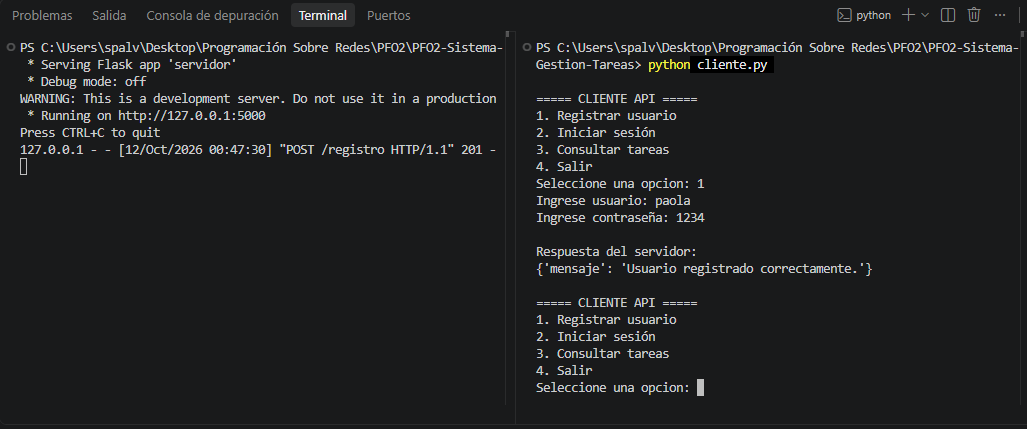
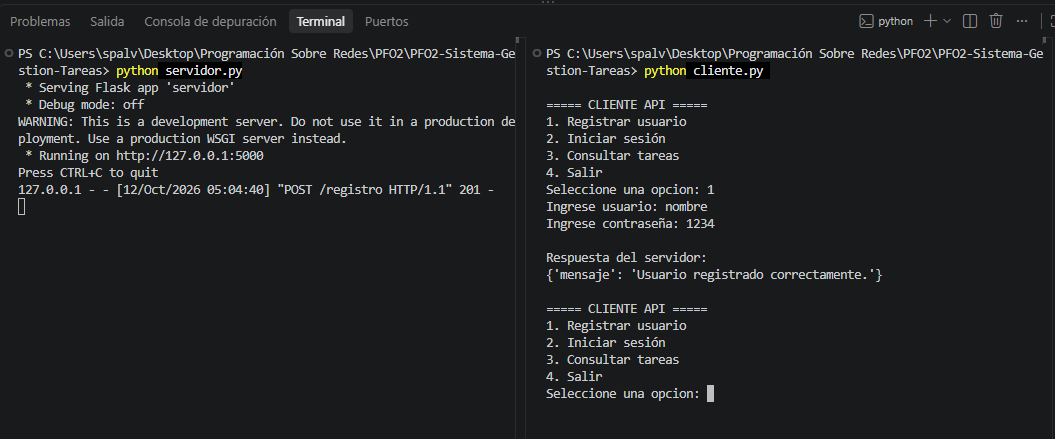
Actualizar README y evidencias de pruebas

diff --git a/README.md b/README.md
@@ -38,7 +38,7 @@ Permite registrar un usuario nuevo.
 
 ```json
 {
-  "usuario": "paola",
+  "usuario": "nombre",
   "contraseña": "1234"
 }
 ```
@@ -61,7 +61,7 @@ Permite autenticar a un usuario registrado.
 
 ```json
 {
-  "usuario": "paola",
+  "usuario": "nombre",
   "contraseña": "1234"
 }
 ```
@@ -71,7 +71,7 @@ Permite autenticar a un usuario registrado.
 ```json
 {
   "mensaje": "Inicio de sesión correcto.",
-  "usuario": "paola"
+  "usuario": "nombre"
 }
 ```
 
@@ -81,9 +81,8 @@ Si el usuario no existe o la contraseña es incorrecta, la API devuelve el códi
 
 Devuelve una página HTML de bienvenida que permite comprobar que el servidor Flask está funcionando correctamente.
 
-**URL local:** http://127.0.0.1:5000/tareas
-
-**Método:** GET.
+- **Método:** GET.
+- **URL local:** http://127.0.0.1:5000/tareas
 
 ## 5. Base de datos SQLite
 
@@ -139,6 +138,8 @@ http://127.0.0.1:5000
 
 La base de datos `usuarios.db` y la tabla `usuarios` se crean automáticamente al iniciar el servidor, si todavía no existen.
 
+Se debe mantener abierta la terminal del servidor mientras se realizan las pruebas.
+
 ### Ejecución del cliente de consola
 
 Abrir una segunda terminal, dentro de la carpeta del proyecto, y ejecutar:
@@ -163,21 +164,23 @@ Se realizaron pruebas para verificar el funcionamiento de la API:
 
 ## 8. Evidencias de ejecución
 
-En la carpeta `capturas/` se incluyen imágenes que documentan el funcionamiento correcto de la aplicación.
+En la carpeta `capturas/` se incluyen imágenes que documentan el funcionamiento de la aplicación.
 
-Las evidencias corresponden a las siguientes pruebas exitosas:
+Las evidencias corresponden a las siguientes pruebas:
 
-- Inicio del servidor Flask (`servidor.png`).
+- Inicio del servidor Flask (`servidor.png` y `servidor1.png`).
 - Registro exitoso de un usuario (`registro.png`).
 - Inicio de sesión correcto (`login.png`).
 - Consulta de la página HTML de bienvenida (`tareas.png`).
-- Verificación del hash almacenado en SQLite (`hash_sqlite.png`).
+- Verificación del hash almacenado en SQLite (`hash_sqlite.png` y `hash_sqlite1.png`).
 
 ## 9. Conclusión
 
 El desarrollo permitió aplicar los conceptos de creación de API REST con Flask, manejo de solicitudes HTTP, persistencia de datos con SQLite y autenticación de usuarios.
 
 También permitió incorporar buenas prácticas de seguridad mediante el almacenamiento de contraseñas con hash, evitando conservar las contraseñas originales en texto plano.
+
+El código fuente y la documentación complementaria se encuentran disponibles en el repositorio de GitHub indicado al final de este documento.
 
 ## 10. Respuestas conceptuales
 
@@ -208,5 +211,5 @@ Al clonar el proyecto, cada desarrollador deberá seleccionar o configurar el in
 
 ## 12. Enlaces del proyecto
 
-- **Repositorio en GitHub:** https://github.com/Pao-1112/PFO2-Sistema-Gestion-Tareas.git
-- **Documentación publicada en GitHub Pages:** https://pao-1112.github.io/PFO2-Sistema-Gestion-Tareas/ 
+- **Repositorio en GitHub:** https://github.com/pao-1112/PFO2-Sistema-Gestion-Tareas
+- **Documentación publicada en GitHub Pages:** https://pao-1112.github.io/PFO2-Sistema-Gestion-Tareas/
